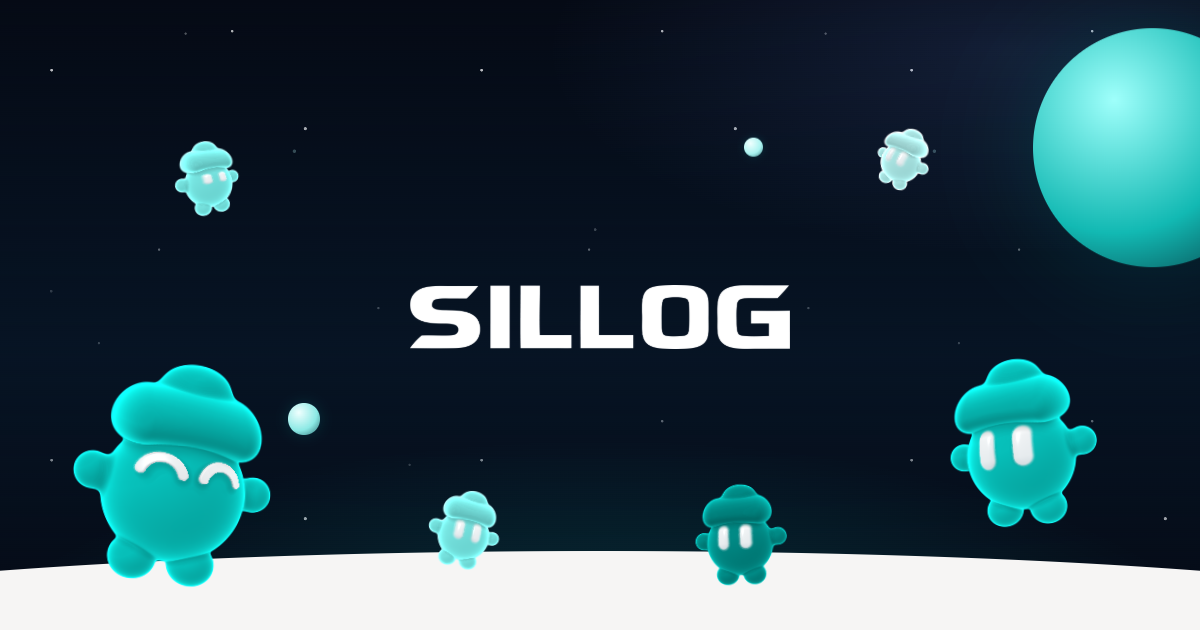
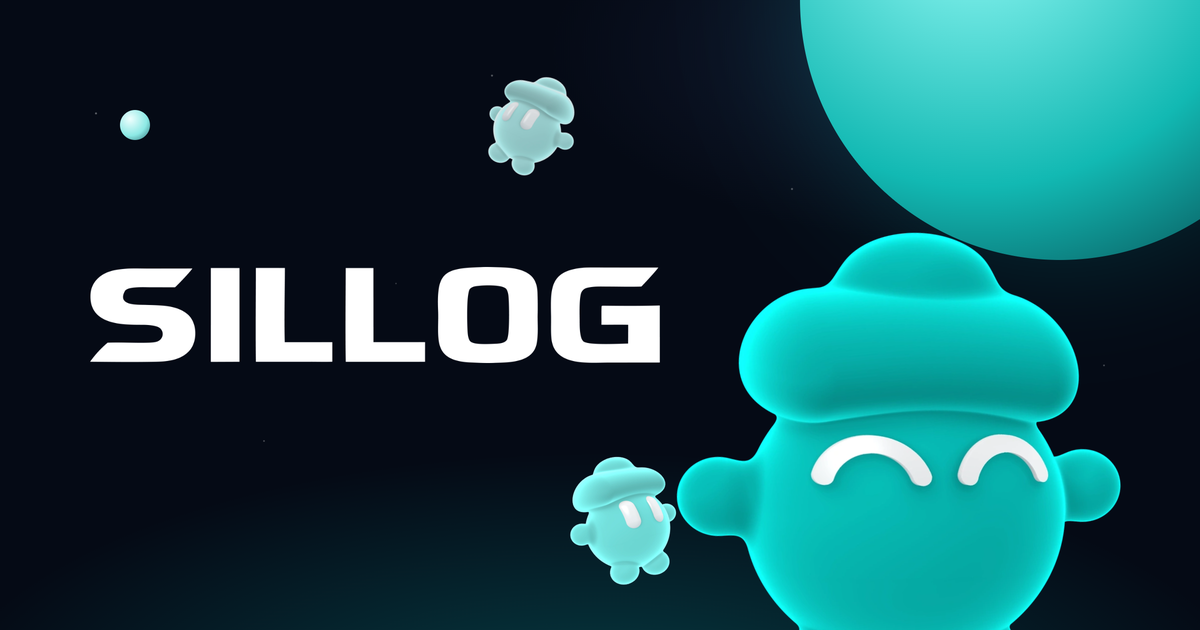
feat: swap the landing og image and bust share preview caches

diff --git a/landing/index.html b/landing/index.html
@@ -17,7 +17,7 @@
 <meta property="og:url" content="https://sillog.app/">
 <meta property="og:title" content="SILLOG, 업무 기록 정리 앱">
 <meta property="og:description" content="컴퓨터에서 한 일을 업무별로 정리하는 macOS 앱. 쌓아 온 기록으로 다음 일을 시작해요.">
-<meta property="og:image" content="https://sillog.app/assets/og.png">
+<meta property="og:image" content="https://sillog.app/assets/og.png?v=2">
 <meta property="og:image:type" content="image/png">
 <meta property="og:image:width" content="1200">
 <meta property="og:image:height" content="630">
@@ -25,7 +25,7 @@
 <meta name="twitter:card" content="summary_large_image">
 <meta name="twitter:title" content="SILLOG, 업무 기록 정리 앱">
 <meta name="twitter:description" content="컴퓨터에서 한 일을 업무별로 정리하는 macOS 앱. 쌓아 온 기록으로 다음 일을 시작해요.">
-<meta name="twitter:image" content="https://sillog.app/assets/og.png">
+<meta name="twitter:image" content="https://sillog.app/assets/og.png?v=2">
 <meta name="twitter:image:alt" content="SILLOG 로고와 민트색 캐릭터들">
 <script type="application/ld+json">
 {
@@ -34,7 +34,7 @@
   "name": "SILLOG",
   "url": "https://sillog.app/",
   "description": "컴퓨터에서 한 일을 업무별로 정리하는 macOS 앱",
-  "image": "https://sillog.app/assets/og.png",
+  "image": "https://sillog.app/assets/og.png?v=2",
   "applicationCategory": "BusinessApplication",
   "operatingSystem": "macOS 14 이상",
   "downloadUrl": "https://github.com/sillog-admin/sillog/releases/latest/download/SILLOG.dmg",

diff --git a/landing/privacy.html b/landing/privacy.html
@@ -17,7 +17,7 @@
 <meta property="og:url" content="https://sillog.app/privacy">
 <meta property="og:title" content="개인정보 처리방침 · SILLOG">
 <meta property="og:description" content="SILLOG이 무엇을 기록하고, 어디에 저장하고, 무엇을 밖으로 보내는지 설명해요.">
-<meta property="og:image" content="https://sillog.app/assets/og.png">
+<meta property="og:image" content="https://sillog.app/assets/og.png?v=2">
 <meta property="og:image:type" content="image/png">
 <meta property="og:image:width" content="1200">
 <meta property="og:image:height" content="630">
@@ -25,7 +25,7 @@
 <meta name="twitter:card" content="summary_large_image">
 <meta name="twitter:title" content="개인정보 처리방침 · SILLOG">
 <meta name="twitter:description" content="SILLOG이 무엇을 기록하고, 어디에 저장하고, 무엇을 밖으로 보내는지 설명해요.">
-<meta name="twitter:image" content="https://sillog.app/assets/og.png">
+<meta name="twitter:image" content="https://sillog.app/assets/og.png?v=2">
 <link rel="stylesheet" href="https://cdn.jsdelivr.net/gh/orioncactus/pretendard@v1.3.9/dist/web/variable/pretendardvariable-dynamic-subset.min.css">
 <style>
 :root{
